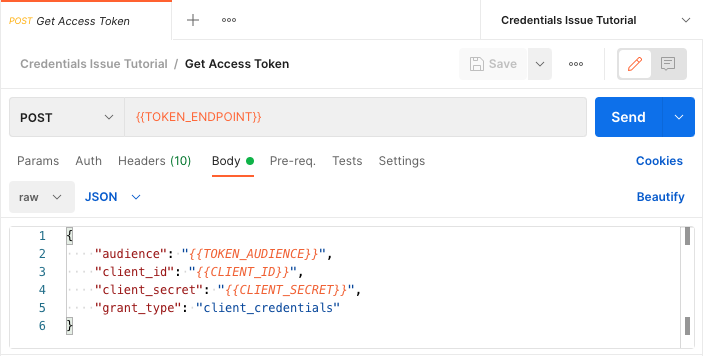
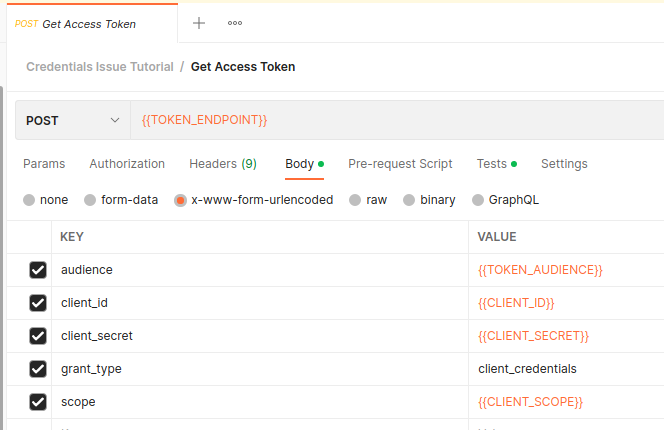
docs: update docs wrt oauth scope changes

diff --git a/docs/spec/sections/authorization.html b/docs/spec/sections/authorization.html
@@ -29,120 +29,29 @@
   <section id="presentation-authentication">
     <h3>Presentation Authentication</h3>
     <p>
-      This API specification describes two ways in which presentations from a holder to a verifier can be authenticated: 
+      This API specification describes two ways in which presentations from a holder to a verifier can be authenticated:
     </p>
     <ul>
       <li>
         <a href="https://w3c-ccg.github.io/vp-request-spec/#did-authentication">DID Authentication</a>,
-        sometimes referred to as DIDAuth, where the holder 
-        demonstrates control over a DID by signing over a challenge provided by the verifier. 
-        Holder binding happens for each presentation: the holder requests a 
-        <a href="https://w3c-ccg.github.io/traceability-interop/openapi/#post-/presentations/available">challenge</a> from 
-        the verifier, and <a href="https://w3c-ccg.github.io/traceability-interop/openapi/#post-/presentations/prove">signs</a> 
+        sometimes referred to as DIDAuth, where the holder
+        demonstrates control over a DID by signing over a challenge provided by the verifier.
+        Holder binding happens for each presentation: the holder requests a
+        <a href="https://w3c-ccg.github.io/traceability-interop/openapi/#post-/presentations/available">challenge</a> from
+        the verifier, and <a href="https://w3c-ccg.github.io/traceability-interop/openapi/#post-/presentations/prove">signs</a>
         a Verifiable Presentation based on that challenge, which is then
-        <a href="https://w3c-ccg.github.io/traceability-interop/openapi/#post-/presentations/submissions">submitted</a> to 
-        the verifier. 
+        <a href="https://w3c-ccg.github.io/traceability-interop/openapi/#post-/presentations/submissions">submitted</a> to
+        the verifier.
       </li>
       <li>
-        <a href="https://www.rfc-editor.org/rfc/rfc6749.html">OAuth 2.0</a>, where the verifier esablishes binding by 
+        <a href="https://www.rfc-editor.org/rfc/rfc6749.html">OAuth 2.0</a>, where the verifier esablishes binding by
         providing client id and secret to the holder.
-        At time of presentation, the holder authenticates by obtaining an 
-        <a href="https://w3c-ccg.github.io/traceability-interop/openapi/#auth">access token</a> through the client 
+        At time of presentation, the holder authenticates by obtaining an
+        <a href="https://w3c-ccg.github.io/traceability-interop/openapi/#auth">access token</a> through the client
         credentials flow. Subsequent <a href="https://w3c-ccg.github.io/traceability-interop/openapi/#post-/presentations">
-        presentations</a> are made with the access token in the request header. 
+        presentations</a> are made with the access token in the request header.
       </li>
     </ul>
   </section>
 
-  <section id="scopes" class="normative">
-    <h3>Scopes</h3>
-
-    <table class="simple">
-      <tr>
-        <th>Scope</th>
-        <th>Description</th>
-      </tr>
-      <tr id="#read:presentations">
-        <td>read:presentations</td>
-        <td>
-          <p>Grants permission to read submitted presentations</p>
-          <a href="https://w3id.org/traceability/interoperability#read:presentations"
-            >https://w3id.org/traceability/interoperability#read:presentations</a
-          >
-        </td>
-      </tr>
-      <tr id="#resolve:dids">
-        <td>resolve:dids</td>
-        <td>
-          <p>Grants permission to resolve DIDs</p>
-          <a href="https://w3id.org/traceability/interoperability#resolve:dids"
-            >https://w3id.org/traceability/interoperability#resolve:dids</a
-          >
-        </td>
-      </tr>
-      <tr id="#issue:credentials">
-        <td>issue:credentials</td>
-        <td>
-          <p>Grants permission to issue Verifiable Credentials</p>
-          <a href="https://w3id.org/traceability/interoperability#issue:credentials"
-            >https://w3id.org/traceability/interoperability#issue:credentials</a
-          >
-        </td>
-      </tr>
-      <tr id="#verify:credentials">
-        <td>verify:credentials</td>
-        <td>
-          <p>Grants permission to verify Verifiable Credentials</p>
-          <a href="https://w3id.org/traceability/interoperability#verify:credentials"
-            >https://w3id.org/traceability/interoperability#verify:credentials</a
-          >
-        </td>
-      </tr>
-      <tr id="#read:credentials">
-        <td>read:credentials</td>
-        <td>
-          <p>Grants permission to get Verifiable Credentials</p>
-          <a href="https://w3id.org/traceability/interoperability#read:credentials"
-            >https://w3id.org/traceability/interoperability#read:credentials</a
-          >
-        </td>
-      </tr>
-      <tr id="#update:credentials">
-        <td>update:credentials</td>
-        <td>
-          <p>Grants permission to update the status of Verifiable Credentials</p>
-          <a href="https://w3id.org/traceability/interoperability#update:credentials"
-            >https://w3id.org/traceability/interoperability#update:credentials</a
-          >
-        </td>
-      </tr>
-      <tr id="#prove:presentations">
-        <td>prove:presentations</td>
-        <td>
-          <p>Grants permission to prove Verifiable Presentations</p>
-          <a href="https://w3id.org/traceability/interoperability#prove:presentations"
-            >https://w3id.org/traceability/interoperability#prove:presentations</a
-          >
-        </td>
-      </tr>
-      <tr id="#verify:presentations">
-        <td>verify:presentations</td>
-        <td>
-          <p>Grants permission to verify Verifiable Presentations</p>
-          <a href="https://w3id.org/traceability/interoperability#verify:presentations"
-            >https://w3id.org/traceability/interoperability#verify:presentations</a
-          >
-        </td>
-      </tr>
-      <tr id="#submit:presentations">
-        <td>submit:presentations</td>
-        <td>
-          <p>Grants permission to submit Verifiable Presentations</p>
-          <a href="https://w3id.org/traceability/interoperability#submit:presentations"
-            >https://w3id.org/traceability/interoperability#submit:presentations</a
-          >
-        </td>
-      </tr>
-    </table>
-  </section>
 </section>

diff --git a/docs/tutorials/authentication/README.md b/docs/tutorials/authentication/README.md
@@ -38,6 +38,10 @@ Add the following variable configuration to the "Authentication Tutorial" Postma
 <dl>
   <dt><code>CLIENT_ID</code></dt>
   <dd>The client ID obtained from your OAuth service provider.</dd>
+  <dt><code>CLIENT_SCOPE</code></dt>
+  <dd>
+    The names of the scopes to request from your OAuth service provider. If your OAuth service provider requires that you name the specific scopes that should be included in the auth token, you should provide a value for this variable.
+  </dd>
   <dt><code>CLIENT_SECRET</code></dt>
   <dd>
     The client secret obtained from your OAuth service provider. 🔥 _**Be especially careful with `CLIENT_SECRET`!**_ 🔥 If it is stolen, an attacker can use it to perform all API operations supported by your service provider.
@@ -66,7 +70,8 @@ Set the request URL to `{{TOKEN_ENDPOINT}}`, and the request body to the followi
     "audience": "{{TOKEN_AUDIENCE}}",
     "client_id": "{{CLIENT_ID}}",
     "client_secret": "{{CLIENT_SECRET}}",
-    "grant_type": "client_credentials"
+    "grant_type": "client_credentials",
+    "scope": "{{CLIENT_SCOPE}}"
 }
 ```
 
@@ -134,6 +139,7 @@ Copy the `sample.env` to `.env` and add values relevant to your organization; th
 source .env && \
 npx newman run ./authentication.postman_collection.json \
 --env-var CLIENT_ID=$CLIENT_ID \
+--env-var CLIENT_SCOPE=$CLIENT_SCOPE \
 --env-var CLIENT_SECRET=$CLIENT_SECRET \
 --env-var TOKEN_AUDIENCE=$TOKEN_AUDIENCE \
 --env-var TOKEN_ENDPOINT=$TOKEN_ENDPOINT \

diff --git a/docs/tutorials/credentials-issue/README.md b/docs/tutorials/credentials-issue/README.md
@@ -28,6 +28,10 @@ For this tutorial, you will need to have the following environment variables con
 <dl>
   <dt><code>CLIENT_ID</code></dt>
   <dd>The client ID obtained from your OAuth service provider.</dd>
+  <dt><code>CLIENT_SCOPE</code></dt>
+  <dd>
+    The names of the scopes to request from your OAuth service provider. If your OAuth service provider requires that you name the specific scopes that should be included in the auth token, you should provide a value for this variable.
+  </dd>
   <dt><code>CLIENT_SECRET</code></dt>
   <dd>
     The client secret obtained from your OAuth service provider. 🔥 Be especially careful with `CLIENT_SECRET`🔥, If it is stolen it will allow an attacker the ability to perform all api operations supported by your service provider.
@@ -52,7 +56,8 @@ Set the request URL to `{{TOKEN_ENDPOINT}}`, and the request body to the followi
     "audience": "{{TOKEN_AUDIENCE}}",
     "client_id": "{{CLIENT_ID}}",
     "client_secret": "{{CLIENT_SECRET}}",
-    "grant_type": "client_credentials"
+    "grant_type": "client_credentials",
+    "scope": "{{CLIENT_SCOPE}}"
 }
 ```
 
@@ -307,6 +312,7 @@ source .env && \
 npx newman run ./credentials-issue.postman_collection.json \
 --env-var ORGANIZATION_DID_WEB=$ORGANIZATION_DID_WEB \
 --env-var CLIENT_ID=$CLIENT_ID \
+--env-var CLIENT_SCOPE=$CLIENT_SCOPE \
 --env-var CLIENT_SECRET=$CLIENT_SECRET \
 --env-var TOKEN_AUDIENCE=$TOKEN_AUDIENCE \
 --env-var TOKEN_ENDPOINT=$TOKEN_ENDPOINT \

diff --git a/docs/tutorials/presentations-exchange-oauth/README.md b/docs/tutorials/presentations-exchange-oauth/README.md
@@ -32,6 +32,7 @@ After the collection has been imported, you should see a new collection in your 
 4. Add the following variables to the environment, replacing the placeholders with your own values:
    - `API_BASE_URL`: The base URL for the Traceability Interop API.
    - `CLIENT_ID`: The client ID obtained from your OAuth service provider.
+   - `CLIENT_SCOPE`: The names of the scopes to request from your OAuth service provider. If your OAuth service provider requires that you name the specific scopes that should be included in the auth token, you should provide a value for this variable.
    - `CLIENT_SECRET`: The client secret obtained from your OAuth service provider. 🔥 Be especially careful with `CLIENT_SECRET`🔥, If it is stolen it will allow an attacker the ability to perform all api operations supported by your service provider.
    - `TOKEN_AUDIENCE`: This value is used to identify the service provider API that the token will be used to access. You may need to configure your identity provider and token endpoint to support this value.
    - `TOKEN_ENDPOINT`:  This is the endpoint used to obtain an access token for Machine to Machine connection secured via <code>CLIENT_ID</code> and <code>CLIENT_SECRET</code>.

diff --git a/docs/tutorials/traceable-presentation-workflow/README.md b/docs/tutorials/traceable-presentation-workflow/README.md
@@ -24,6 +24,7 @@ After the collection has been imported, you should see a new collection in your 
 4. Add the following variables to the environment, replacing the placeholders with your own values. These should reflect the Machine to Machine OAuth Application configured on the Verifier's platform, used for the Holder to make the Traceable Presentation which includes Workflow details:
    - `API_BASE_URL`: Verifier platform's base URL. 
    - `CLIENT_ID`: The client ID for the M2M application, to be used by the Holder.
+   - `CLIENT_SCOPE`: The names of the scopes to request from your OAuth service provider. If your OAuth service provider requires that you name the specific scopes that should be included in the auth token, you should provide a value for this variable.
    - `CLIENT_SECRET`: The client secret provided from the Verifier to the Holder. 🔥 Be especially careful with `CLIENT_SECRET`🔥.
    - `TOKEN_ENDPOINT`:  This is the endpoint used to obtain an access token for M2M connection secured via <code>CLIENT_ID</code> and <code>CLIENT_SECRET</code>.
    - `ORGANIZATION_DID_WEB`: Verifier's `did:web` used for service endpoint discovery, on which the presentation is made.

diff --git a/docs/tutorials/credentials-status-update/README.md b/docs/tutorials/credentials-status-update/README.md
@@ -147,6 +147,7 @@ source .env && \
 npx newman run ./credentials-status-update.postman_collection.json \
 --env-var ORGANIZATION_DID_WEB=$ORGANIZATION_DID_WEB \
 --env-var CLIENT_ID=$CLIENT_ID \
+--env-var CLIENT_SCOPE=$CLIENT_SCOPE \
 --env-var CLIENT_SECRET=$CLIENT_SECRET \
 --env-var TOKEN_AUDIENCE=$TOKEN_AUDIENCE \
 --env-var TOKEN_ENDPOINT=$TOKEN_ENDPOINT \

diff --git a/docs/tutorials/credentials-revocation/README.md b/docs/tutorials/credentials-revocation/README.md
@@ -146,6 +146,7 @@ source .env && \
 npx newman run ./credentials-revocation.postman_collection.json \
 --env-var ORGANIZATION_DID_WEB=$ORGANIZATION_DID_WEB \
 --env-var CLIENT_ID=$CLIENT_ID \
+--env-var CLIENT_SCOPE=$CLIENT_SCOPE \
 --env-var CLIENT_SECRET=$CLIENT_SECRET \
 --env-var TOKEN_AUDIENCE=$TOKEN_AUDIENCE \
 --env-var TOKEN_ENDPOINT=$TOKEN_ENDPOINT \

diff --git a/docs/tutorials/credentials-verify/README.md b/docs/tutorials/credentials-verify/README.md
@@ -134,6 +134,7 @@ source .env && \
 npx newman run ./credentials-verify.postman_collection.json \
 --env-var ORGANIZATION_DID_WEB=$ORGANIZATION_DID_WEB \
 --env-var CLIENT_ID=$CLIENT_ID \
+--env-var CLIENT_SCOPE=$CLIENT_SCOPE \
 --env-var CLIENT_SECRET=$CLIENT_SECRET \
 --env-var TOKEN_AUDIENCE=$TOKEN_AUDIENCE \
 --env-var TOKEN_ENDPOINT=$TOKEN_ENDPOINT \

diff --git a/docs/tutorials/did-web-discovery/README.md b/docs/tutorials/did-web-discovery/README.md
@@ -137,6 +137,7 @@ source .env && \
 npx newman run ./did-web-discovery.postman_collection.json \
 --env-var ORGANIZATION_DID_WEB=$ORGANIZATION_DID_WEB \
 --env-var CLIENT_ID=$CLIENT_ID \
+--env-var CLIENT_SCOPE=$CLIENT_SCOPE \
 --env-var CLIENT_SECRET=$CLIENT_SECRET \
 --env-var TOKEN_AUDIENCE=$TOKEN_AUDIENCE \
 --env-var TOKEN_ENDPOINT=$TOKEN_ENDPOINT \
